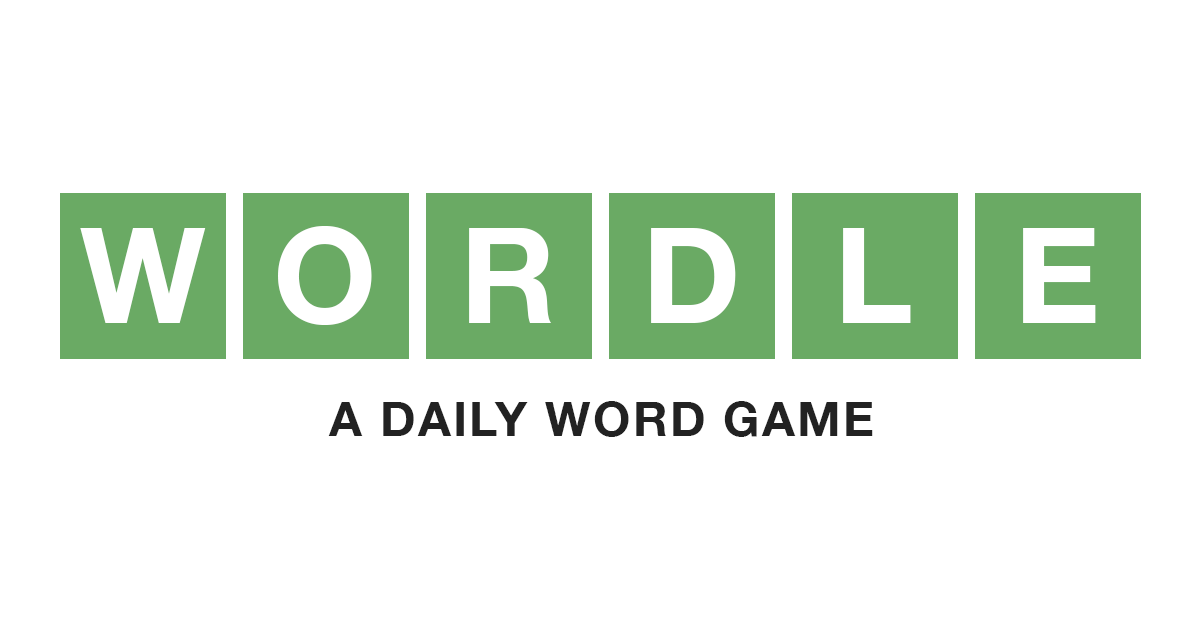
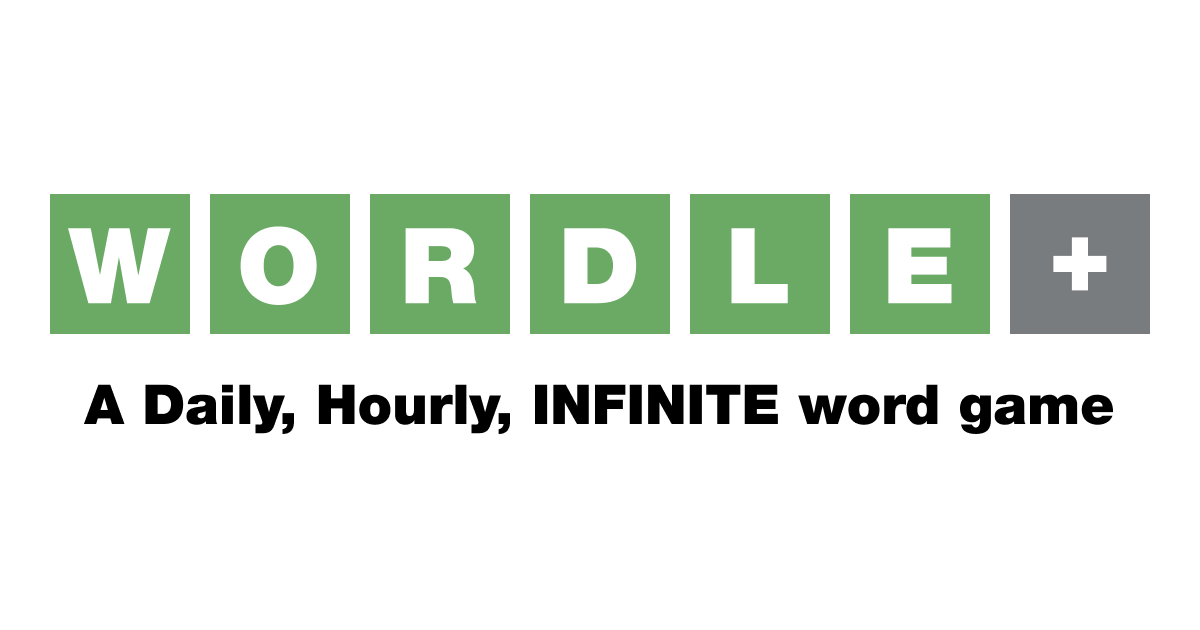
feat: :lipstick: updated images, improved ctx closing

Changed region(s): [[0.0308, 0.3016, 0.9558, 0.573], [0.0617, 0.6032, 0.925, 0.6937]]

diff --git a/src/components/board/Board.svelte b/src/components/board/Board.svelte
@@ -1,8 +1,12 @@
 <script lang="ts">
+	import { getContext } from "svelte";
+	import { getRowData } from "../../utils";
+
 	import Row from "./Row.svelte";
+	import ContextMenu from "../widgets/ContextMenu.svelte";
 
 	export let value: string[];
-	export let state: LetterState[][];
+	export let board: GameBoard;
 	export let guesses: number;
 	export let icon: string;
 	export function shake(row: number) {
@@ -11,13 +15,46 @@
 	export function bounce(row: number) {
 		rows[row].bounce();
 	}
-
+	export function hideCtx(e?) {
+		if (!e || !e.defaultPrevented) showCtx = false;
+	}
+	const words = getContext<Words>("words");
 	let rows: Row[] = [];
+	let showCtx = false;
+	let pAns = 0;
+	let pSols = 0;
+	let x = 0;
+	let y = 0;
+	let word = "";
+
+	function context(cx: number, cy: number, num: number, val: string) {
+		if (guesses >= num) {
+			x = cx;
+			y = cy;
+			showCtx = true;
+			word = guesses > num && num < 5 ? val : "";
+
+			const match = getRowData(num, board);
+			pAns = words.words.filter((w) => match(w)).length;
+			pSols = pAns + words.valid.filter((w) => match(w)).length;
+		}
+	}
 </script>
 
-<div>
+{#if showCtx}
+	<ContextMenu {pAns} {pSols} {x} {y} {word} />
+{/if}
+
+<div class="board">
 	{#each value as _, i}
-		<Row num={i} {guesses} bind:this={rows[i]} bind:value={value[i]} state={state[i]} />
+		<Row
+			num={i}
+			{guesses}
+			bind:this={rows[i]}
+			bind:value={value[i]}
+			state={board.state[i]}
+			on:ctx={(e) => context(e.detail.x, e.detail.y, i, value[i])}
+		/>
 	{/each}
 	{#if icon}
 		<svg xmlns="http://www.w3.org/2000/svg" viewBox="0 0 200 200" fill="none">
@@ -27,7 +64,7 @@
 </div>
 
 <style>
-	div {
+	.board {
 		display: grid;
 		grid-template-rows: repeat(6, 1fr);
 		gap: 5.5px;

diff --git a/src/components/board/Row.svelte b/src/components/board/Row.svelte
@@ -1,11 +1,6 @@
 <script lang="ts">
-	import { getContext } from "svelte";
+	import { createEventDispatcher } from "svelte";
 
-	import { get } from "svelte/store";
-	import { gameBoard } from "../../stores";
-	import { getRowData } from "../../utils";
-
-	import ContextMenu from "../widgets/ContextMenu.svelte";
 	import Tile from "./Tile.svelte";
 	export let guesses: number;
 	export let num: number;
@@ -17,42 +12,14 @@
 	export function bounce() {
 		tiles.forEach((e) => e.bounce());
 	}
-	const words = getContext<Words>("words");
+	const dispatch = createEventDispatcher();
 	let animation = "";
 	let tiles: Tile[] = [];
-
-	function context(e: MouseEvent) {
-		if (guesses >= num) {
-			x = e.clientX;
-			y = e.clientY;
-			showCtx = true;
-
-			const match = getRowData(num, get(gameBoard));
-			pAns = words.words.filter((w) => match(w)).length;
-			pSols = pAns + words.valid.filter((w) => match(w)).length;
-		}
-	}
-	let showCtx = false;
-	let pAns = 0;
-	let pSols = 0;
-	let x = 0;
-	let y = 0;
 </script>
-
-{#if showCtx}
-	<ContextMenu
-		{pAns}
-		{pSols}
-		{x}
-		{y}
-		bind:visible={showCtx}
-		word={guesses > num && num < 5 ? value : ""}
-	/>
-{/if}
 
 <div
 	class="board-row"
-	on:contextmenu|preventDefault={context}
+	on:contextmenu|preventDefault={(e) => dispatch("ctx", { x: e.clientX, y: e.clientY })}
 	on:animationend={() => (animation = "")}
 	data-animation={animation}
 	class:complete={guesses > num}

diff --git a/src/components/settings/Settings.svelte b/src/components/settings/Settings.svelte
@@ -32,7 +32,7 @@
 <!-- not currently supported, see https://github.com/sveltejs/svelte/issues/3105 -->
 <!-- <svelte:body class:light={!$settings.dark} class:colorblind={$settings.colorblind} /> -->
 <div class="outer">
-	<div>
+	<div class="settings-top">
 		<h3>settings</h3>
 		<div
 			on:click={() => {
@@ -65,7 +65,13 @@
 	</div>
 	<div class="footer">
 		<a href="https://www.powerlanguage.co.uk/wordle/" target="_blank">Original Wordle</a>
-		<div class="word">
+		<div
+			class="word"
+			on:contextmenu|preventDefault={() => {
+				localStorage.clear();
+				toaster.pop("localStorage cleared");
+			}}
+		>
 			{modeData.modes[$mode].name} word #{getWordNumber($mode)}
 		</div>
 	</div>
@@ -80,7 +86,6 @@
 	}
 	.links {
 		font-size: var(--fs-medium);
-		padding: 16px 0;
 		border-bottom: 1px solid var(--border-primary);
 		color: var(--fg-secondary);
 		display: flex;
@@ -90,5 +95,17 @@
 		color: var(--fg-secondary);
 		display: flex;
 		justify-content: space-between;
+	}
+	:global(.settings-top > div) {
+		padding: 16px 0;
+		border-bottom: 1px solid var(--border-primary);
+	}
+	@media (max-device-width: 480px) {
+		:global(.settings-top > div) {
+			padding: 16px !important;
+		}
+		.footer {
+			padding: 0 16px;
+		}
 	}
 </style>

diff --git a/src/components/Game.svelte b/src/components/Game.svelte
@@ -23,7 +23,7 @@
 		modeData,
 		checkHardMode,
 	} from "../utils";
-	import { letterStates, settings, mode, gameBoard } from "../stores";
+	import { letterStates, settings, mode } from "../stores";
 
 	export let word: string;
 	export let stats: Stats;
@@ -42,7 +42,6 @@
 	let showRefresh = false;
 
 	let board: Board;
-	$: gameBoard.set(game.board);
 
 	function submitWord() {
 		if (game.board.words[game.guesses].length !== words.length) {
@@ -120,6 +119,8 @@
 	// $: toaster.pop(word);
 </script>
 
+<svelte:body on:click={board.hideCtx} on:contextmenu={board.hideCtx} />
+
 <main class:guesses={game.guesses !== 0}>
 	<Header
 		bind:showRefresh
@@ -133,12 +134,15 @@
 	<Board
 		bind:this={board}
 		bind:value={game.board.words}
-		state={game.board.state}
+		board={game.board}
 		guesses={game.guesses}
 		icon={modeData.modes[$mode].icon}
 	/>
 	<Keyboard
-		on:keystroke|once={() => ($settings.tutorial = 0)}
+		on:keystroke|once={() => {
+			$settings.tutorial = 0;
+			board.hideCtx();
+		}}
 		bind:value={game.board.words[game.guesses]}
 		on:submitWord={submitWord}
 		on:esc={() => {

diff --git a/src/components/widgets/ContextMenu.svelte b/src/components/widgets/ContextMenu.svelte
@@ -3,15 +3,10 @@
 
 	export let x = 0;
 	export let y = 0;
-	export let visible = false;
 	export let word = "";
 	export let pAns: number;
 	export let pSols: number;
 
-	function windowClick(e: MouseEvent) {
-		const target = e.target as HTMLElement;
-		visible = false;
-	}
 	$: x = window.innerWidth - x < 250 ? window.innerWidth - 250 : x;
 </script>
 
@@ -35,8 +30,6 @@
 		</div>
 	{/if}
 </div>
-
-<svelte:window on:click={windowClick} />
 
 <style lang="scss">
 	.ctx-menu {

diff --git a/src/components/widgets/Share.svelte b/src/components/widgets/Share.svelte
@@ -8,7 +8,7 @@
 		data.guesses <= data.board.words.length ? data.guesses : "X"
 	}/${data.board.words.length}\n\n${data.board.state
 		.slice(0, data.guesses)
-		.reduce((a, b) => `${a}${b.join("")}\n`, "")}`;
+		.reduce((a, b) => `${a}${b.join("")}\n`, "")}https://mikhad.github.io/wordle/`;
 </script>
 
 <div on:click={() => navigator.clipboard.writeText(stats)}>

diff --git a/src/components/widgets/index.ts b/src/components/widgets/index.ts
@@ -5,4 +5,5 @@ export { default as Tutorial } from "./Tutorial.svelte";
 export { default as Timer } from "./Timer.svelte";
 export { default as Toaster } from "./Toaster.svelte";
 export { default as Tips } from "./Tips.svelte";
+export { default as ContextMenu } from "./ContextMenu.svelte";
 export * from "./stats";

diff --git a/src/utils.ts b/src/utils.ts
@@ -41,7 +41,6 @@ export function getRowData(n: number, board: GameBoard) {
 			? wordData.letters[i].val
 			: `[^${[...wordData.not, ...wordData.letters[i].not].join(" ")}]`;
 	}
-	console.log(exp);
 	return (word: string) => {
 		if (new RegExp(exp).test(word)) {
 			for (const char of wordData.contained) {

diff --git a/src/components/settings/Setting.svelte b/src/components/settings/Setting.svelte
@@ -21,11 +21,10 @@
 
 <style>
 	.setting {
-		border-bottom: 1px solid var(--border-primary);
+		/* border-bottom: 1px solid var(--border-primary); */
 		display: flex;
 		justify-content: space-between;
 		align-items: center;
-		padding: 16px 0;
 	}
 	.title {
 		font-size: var(--fs-medium);

diff --git a/src/stores.ts b/src/stores.ts
@@ -7,5 +7,3 @@ export const mode = writable<GameMode>();
 export const letterStates = writable(createLetterStates());
 
 export const settings = writable(createDefaultSettings());
-
-export const gameBoard = writable<GameBoard>();

diff --git a/src/components/widgets/Definition.svelte b/src/components/widgets/Definition.svelte
@@ -21,7 +21,7 @@
 
 <div class="def">
 	{#await getWordData(word)}
-		<h4>Fetching definition</h4>
+		<h4>Fetching definition...</h4>
 	{:then data}
 		<h2>{word}</h2>
 		<em>{data.meanings[0].partOfSpeech}</em>

diff --git a/README.md b/README.md
@@ -27,15 +27,19 @@ This is still in development. My goal is to make it as close to the original wor
 # To Do
 ## Before Release
 - Fix nonsense with timings & delay variable
+- Distinguish between failing to fetch definition and no definition found. If it failed to fetch the definition, add a retry button
+- Add manifest.json and make it into a PWA
+- Add media queries to tutorial and settings (see original wordle)
 
 ## Less serious
 - Don't show definition when right clicking on last row, as that is in the stats
 - add right click menu on rows that allows you to get the dictionary definition for that row
 - get rid of magic numbers (for length of word and number of guesses)
-- Add manifest.json and make it into a PWA
 - Tidy up animation code and make animation mechanism consistant (if possible)
 
 ## Done
+- Personalize images
+- Close context menu when left or right click occurs anywhere
 - if a row is right clicked show the number of possible words that could have been played in that row
 - Add option to definition for how many alternate definitions to show
 - remove unused css variables
